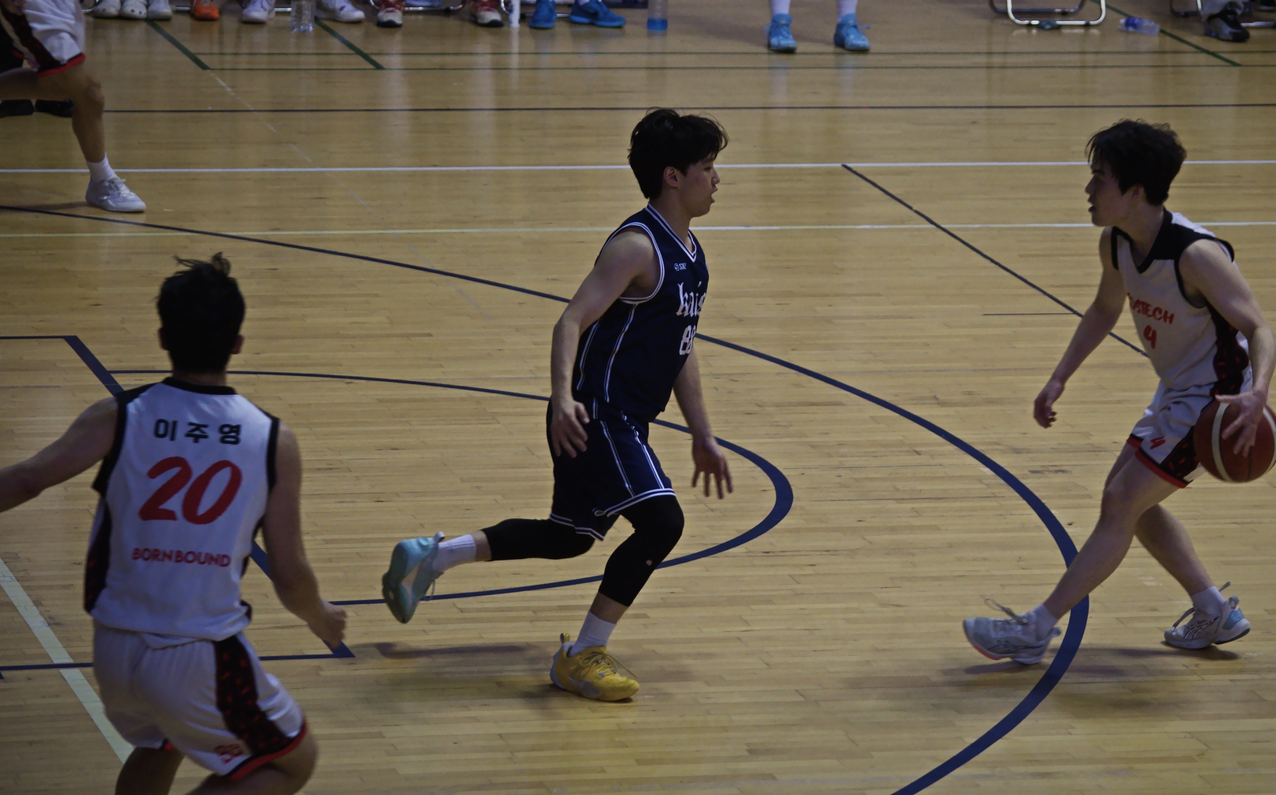
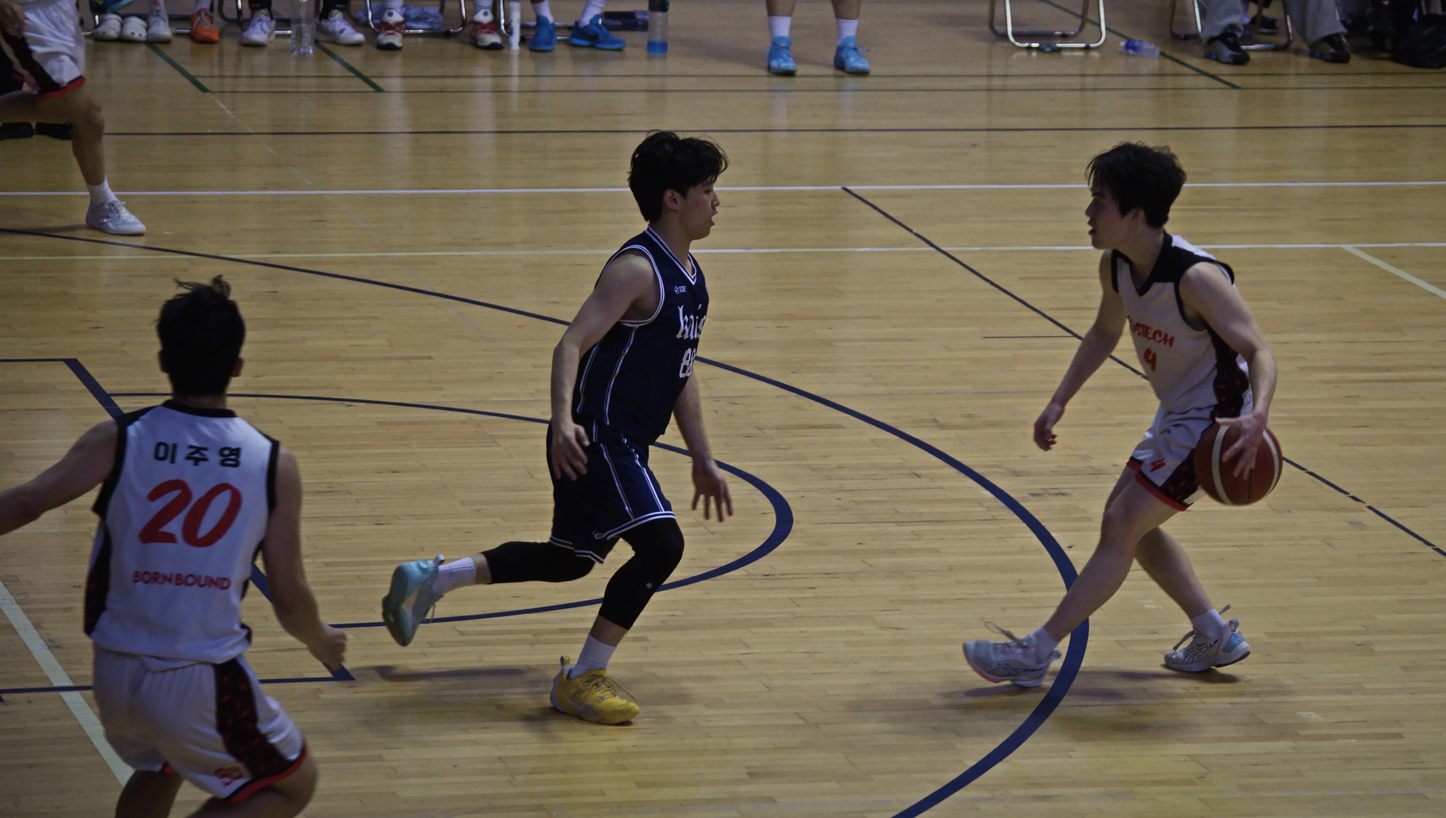
크롭 전수 점검: 관절·발·몸통 절단 10컷 수정 후 재현상, 브리프 종합우승 정정, 공개 문서에 크롭 오류·v4 폐기 기록
Claude-Session: https://claude.ai/code/session_01UnSELjwGz3pkhwLisvMXDE

diff --git a/docs/disclosure_pipeline.md b/docs/disclosure_pipeline.md
@@ -118,6 +118,7 @@ Claude가 위 밀착 시트 13장(약 254컷)을 보고 보도 가치, 순간성
 - 기자의 지시("크리에이티브 디렉터 관점, 예쁨·분위기 중시")에 따라 웹 레퍼런스를 조사했다(9절).
 - 그 결과로 콘셉트 「차가운 비, 뜨거운 사람들」과 장면별 룩 7종을 정했다(`docs/creative_brief.md`).
 - 크롭은 10% 격자를 얹은 시트(`work/06_crop_grid/`)를 보고 컷별로 정했다(`looks/edits.tsv`). 50컷 중 31컷에 크롭을 적용했다.
+- **크롭 오류와 수정:** AI가 정한 1차 크롭 31개 중 10개에 프레이밍 오류가 있었다. 발·공 잘림(PT2_0246), 다리·팔 잘림, 화면 가장자리 선수의 몸통 절단 같은 문제였다. 기자가 PT2_0246을 지적한 뒤 31개를 전수 점검해 10개를 고쳤다. 점검 시트(`cropaudit_*.jpg`, 빨간 테두리는 1차 크롭)와 수정본(`crop_audit_fixed.jpg`, 초록 테두리)이 같은 폴더에 있고, 수정 사유는 `edits.tsv`의 note 열에 적었다.
 
 ---
 
@@ -144,7 +145,9 @@ Claude가 위 밀착 시트 13장(약 254컷)을 보고 보도 가치, 순간성
 ### 6.1 반복 이력
 - **v1:** 노출을 선형 목표값으로 맞추고 상한을 +2.2EV로 고정했다. 6컷 모두 상한에 걸렸고, 결과가 뿌옇게 떠서 시상식은 보라색, 무대·LoL은 과하게 밝았다. 이 결과물은 남아 있지 않고 문장으로만 기록한다.
 - **v2:** 노출을 표시값 기준 이분 탐색으로 바꾸고 S커브를 추가했다. 시상식은 화이트밸런스 중화를 약하게(0.25) 하고 따뜻한 틴트를 줬다(`before_after_v2.jpg`, 왼쪽은 카메라 JPG). 이후 시상식 틴트를 (1.04, 1.00, 0.94)에서 (1.06, 1.00, 0.92)로 더 따뜻하게 했다.
-- **v3:** 50% 확대에서 ISO 7200–11400 컷의 노이즈가 보였다(`detail_50pct_v2_beforeNR.jpg`). 그래서 노이즈 제거 단계를 4단계로 늘리고 엣지 마스크 샤프닝을 도입했다(`detail_50pct_v3_afterNR.jpg`). 최종본은 v3로 50장 전체를 다시 현상한 결과다.
+- **v3(현재 채택):** 50% 확대에서 ISO 7200–11400 컷의 노이즈가 보였다(`detail_50pct_v2_beforeNR.jpg`). 그래서 노이즈 제거 단계를 4단계로 늘리고 엣지 마스크 샤프닝을 도입했다(`detail_50pct_v3_afterNR.jpg`). 최종본은 v3로 50장 전체를 다시 현상한 결과다. 크롭을 수정한 10장은 같은 v3로 다시 현상했다.
+- **v4(폐기):** Mask R-CNN 사람 마스크로 피사체를 밝히고 배경을 누르는 국소 보정을 자동으로 적용했다. 후광과 과한 HDR 느낌이 생겼고, 기자가 실무에서 통용되지 않는 방식이라고 판단해 폐기했다. 최종 결과물에는 쓰지 않았고, 기록은 `work/10_v4_rejected/`에 있다.
+- **보정 원칙 변경(진행 중):** 기자의 지시로 '전역 톤·색만'이라는 원칙을 풀었다. 객체를 지우거나 합성하지 않는다는 원칙만 유지한다. 레퍼런스(`work/09_refs_wikimedia/`)와 비교한 결과를 반영해 v3를 개선하는 작업이 남아 있다.
 
 ---
 

diff --git a/docs/creative_brief.md b/docs/creative_brief.md
@@ -4,7 +4,7 @@
 
 ## 1. 한 줄 콘셉트
 **"차가운 비, 뜨거운 사람들."**
-11/14 포항은 아침부터 밤까지 비(12–16°C)였다. 운영은 삐걱댔지만(공연 40분 지연, 야구 우천 지연) POSTECH은 LoL 우승, 농구·배드민턴 준우승으로 종합 2위까지 올라섰다.
+11/14 포항은 아침부터 밤까지 비(12–16°C)였다. 운영은 삐걱댔지만(공연 40분 지연, 야구 우천 지연) POSTECH은 LoL 우승, 농구·배드민턴 준우승을 쌓아 **종합우승**을 차지했다. (초판에서 19:38 중간 순위를 최종 결과로 오기해 '종합 2위'라고 적었다가 정정함)
 사진 톤은 이 대비를 따라간다. **배경은 차분하고 서늘하게 두고, 사람·땀·조명·우승기는 따뜻하고 선명하게** 살린다.
 
 ## 2. 원칙 (보도사진 윤리 + 신문 인쇄)
@@ -26,7 +26,7 @@
 | 현수막·스케치 | **Campus Note** | 기록 | 중립·정직하게 |
 
 ## 4. 지면 운용 제안 (CD 픽)
-- **4면 메인(탑 이미지):** PT1_0556 시상 환호, 또는 PT1_0620 우승기를 든 대표. 'POSTECH이 웃은 날'이라는 서사를 맡는다.
+- **4면 메인(탑 이미지):** PT1_0556 시상 환호, 또는 PT1_0620 우승기를 든 대표. 'POSTECH 종합우승'이라는 서사를 맡는다. 우승기 컷이 이 서사를 가장 직접적으로 보여 준다.
 - **서브 1(스포츠 현장):** PT2_0246 빗속 볼 경합, 또는 PT1_0493 KAIST 수비에 둘러싸인 POSTECH 선수.
 - **서브 2(축제 분위기):** PT1_0645 CHEERO 깃발 퍼포먼스.
 - **IT ARENA 박스:** PT2_0482 RC카 주행 근접.
